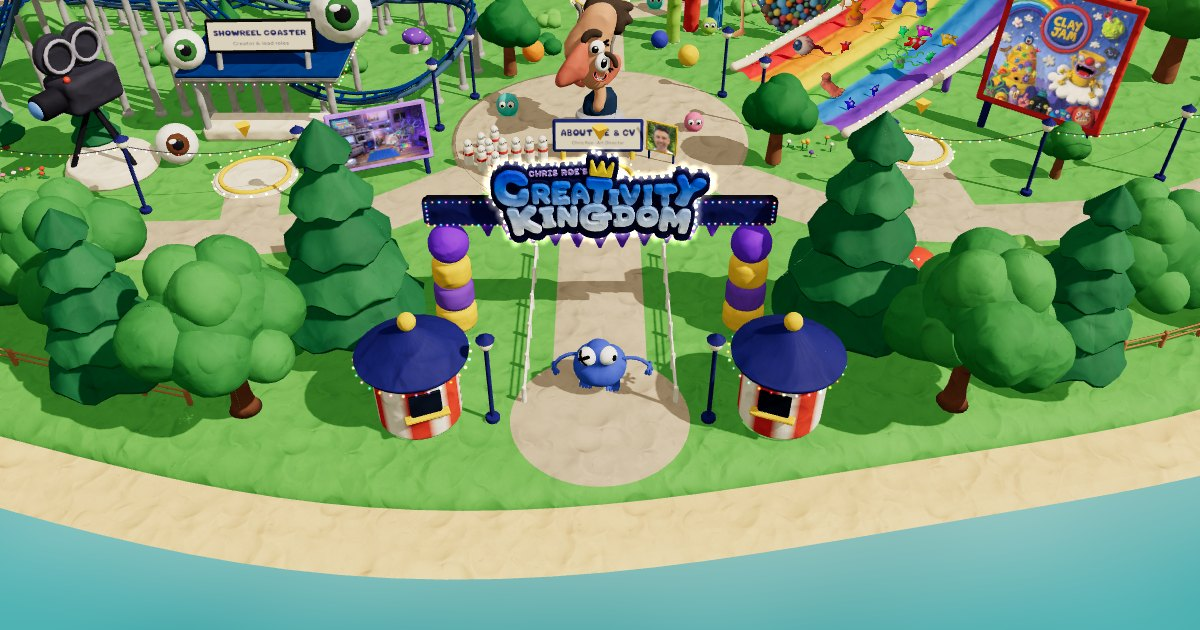
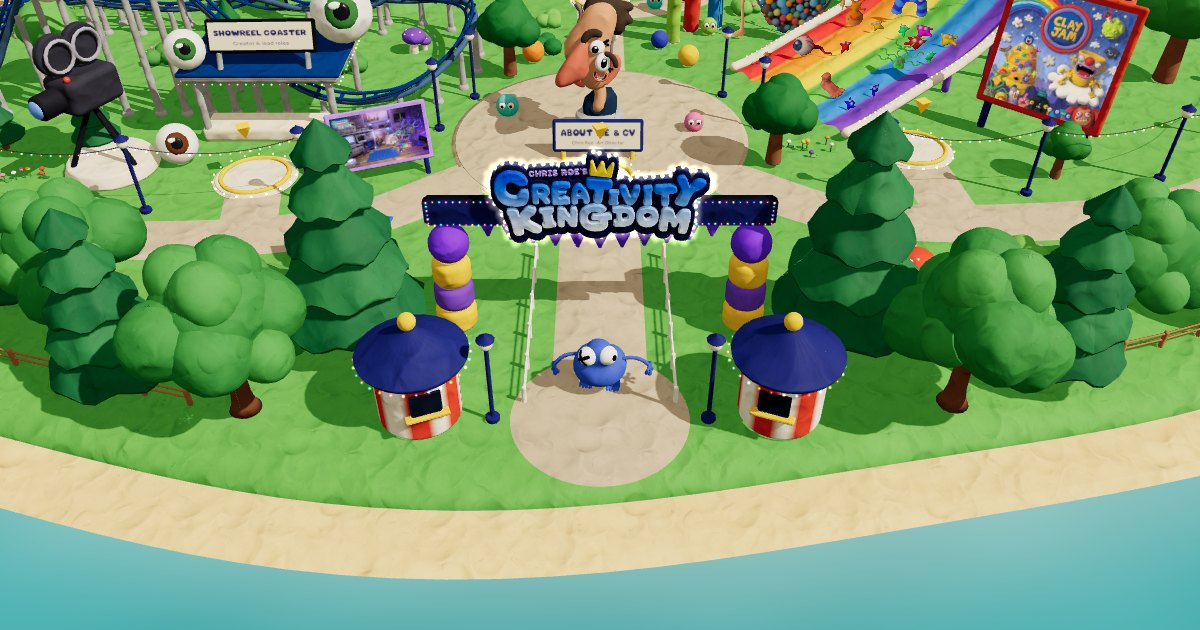
hub arrow

diff --git a/index.html b/index.html
@@ -743,6 +743,8 @@ const sun = new THREE.DirectionalLight('#fff6ea', 2.6);
 sun.castShadow = true;
 // shadows reach further (a wider shadow area), with a bigger shadow map on computers to keep them crisp
 const SHADOW_REACH = isTouchDevice() ? 58 : 70, SHADOW_MAP = isTouchDevice() ? 2048 : 4096;
+const REEL_ARROW_AT = [-14.3, 53.94], REEL_ARROW_DIR = [-.78, .62], REEL_ARROW_COLOUR = '#2f6dff';   // the blue arrow at the start of the path to the Showreel Coaster: where (x, z) and which way
+const SKITTLES_AT = [0, 25.5];   // the skittles' triangle on the path to Chaos Castle (x, z)
 sun.shadow.mapSize.set(SHADOW_MAP, SHADOW_MAP);
 Object.assign(sun.shadow.camera, { left:-SHADOW_REACH, right:SHADOW_REACH, top:SHADOW_REACH, bottom:-SHADOW_REACH, near:1, far:200 });
 sun.shadow.bias = -0.0004; sun.shadow.normalBias = 0.05;
@@ -1096,6 +1098,29 @@ function buildFromGLTF(gltf){
       signMat.customProgramCacheKey = () => 'clay-sign';
       const logoMesh = new THREE.Mesh(mergeGeometries(pieces, false), signMat); pieces.forEach(g => g.dispose()); logoMesh.castShadow = logoMesh.receiveShadow = true; scene.add(logoMesh);
     };
+  }
+  { // Leading the way from the hub: no photo sign by the statue, a blue arrow on the path to the Showreel Coaster,
+    // and the skittles set up in a triangle on the path to Chaos Castle.
+    const pic = first('Picture_portrait'); if (pic && pic.parent) pic.parent.remove(pic);
+    // skittles: a 4-3-2-1 triangle, head pin facing the hub
+    const pinNodes = byRe(/^BowlingPin(_\d+)?$/);
+    if (pinNodes.length){ const [cx, cz] = SKITTLES_AT, sp = .95, slots = [];
+      for (let row = 0; row < 4; row++) for (let k = 0; k <= row; k++) slots.push([cx + (k - row / 2) * sp, cz + (1.5 - row) * sp * .87]);
+      pinNodes.forEach((o, i) => { if (!slots[i]) return; const c = new THREE.Box3().setFromObject(o).getCenter(new THREE.Vector3()), w = o.getWorldPosition(new THREE.Vector3());
+        w.x += slots[i][0] - c.x; w.z += slots[i][1] - c.z; o.parent.worldToLocal(w); o.position.copy(w); o.updateMatrixWorld(true); }); }
+    // a chunky, rounded blue clay arrow lying at the start of the path to the Showreel Coaster, pointing along it
+    { const [ax, az] = REEL_ARROW_AT, [dx, dz] = REEL_ARROW_DIR;
+      const Lh = 2, Ls = 2.3, Wh = 2, Ws = .8, pts = [[Lh, 0], [0, Wh], [0, Ws], [-Ls, Ws], [-Ls, -Ws], [0, -Ws], [0, -Wh]];   // tip, head and shaft corners
+      const R = [.55, .45, .25, .55, .55, .25, .45];   // how round each corner is
+      const sh = new THREE.Shape(), n = pts.length, V = (p, q, d) => { const vx = q[0] - p[0], vy = q[1] - p[1], L = Math.hypot(vx, vy); return [p[0] + vx / L * d, p[1] + vy / L * d]; };
+      for (let i = 0; i < n; i++){ const p = pts[i], prev = pts[(i + n - 1) % n], next = pts[(i + 1) % n];
+        const a0 = V(p, prev, R[i]), a1 = V(p, next, R[i]);
+        if (i === 0) sh.moveTo(...a0); else sh.lineTo(...a0);
+        sh.quadraticCurveTo(p[0], p[1], ...a1); }
+      sh.closePath();
+      const g = new THREE.ExtrudeGeometry(sh, { depth:.12, bevelEnabled:true, bevelThickness:.16, bevelSize:.2, bevelOffset:-.05, bevelSegments:6, curveSegments:10 });
+      g.rotateX(-Math.PI / 2); g.translate(0, .12, 0); g.rotateY(Math.atan2(-dz, dx)); g.translate(ax, 0, az);
+      const arrow = new THREE.Mesh(colourGeo(toCreasedNormals(g, 1.0), REEL_ARROW_COLOUR), clayMat); arrow.receiveShadow = true; arrow.castShadow = true; scene.add(arrow); }
   }
   const numeric = (a, b) => a.name.localeCompare(b.name, undefined, { numeric:true });
 
